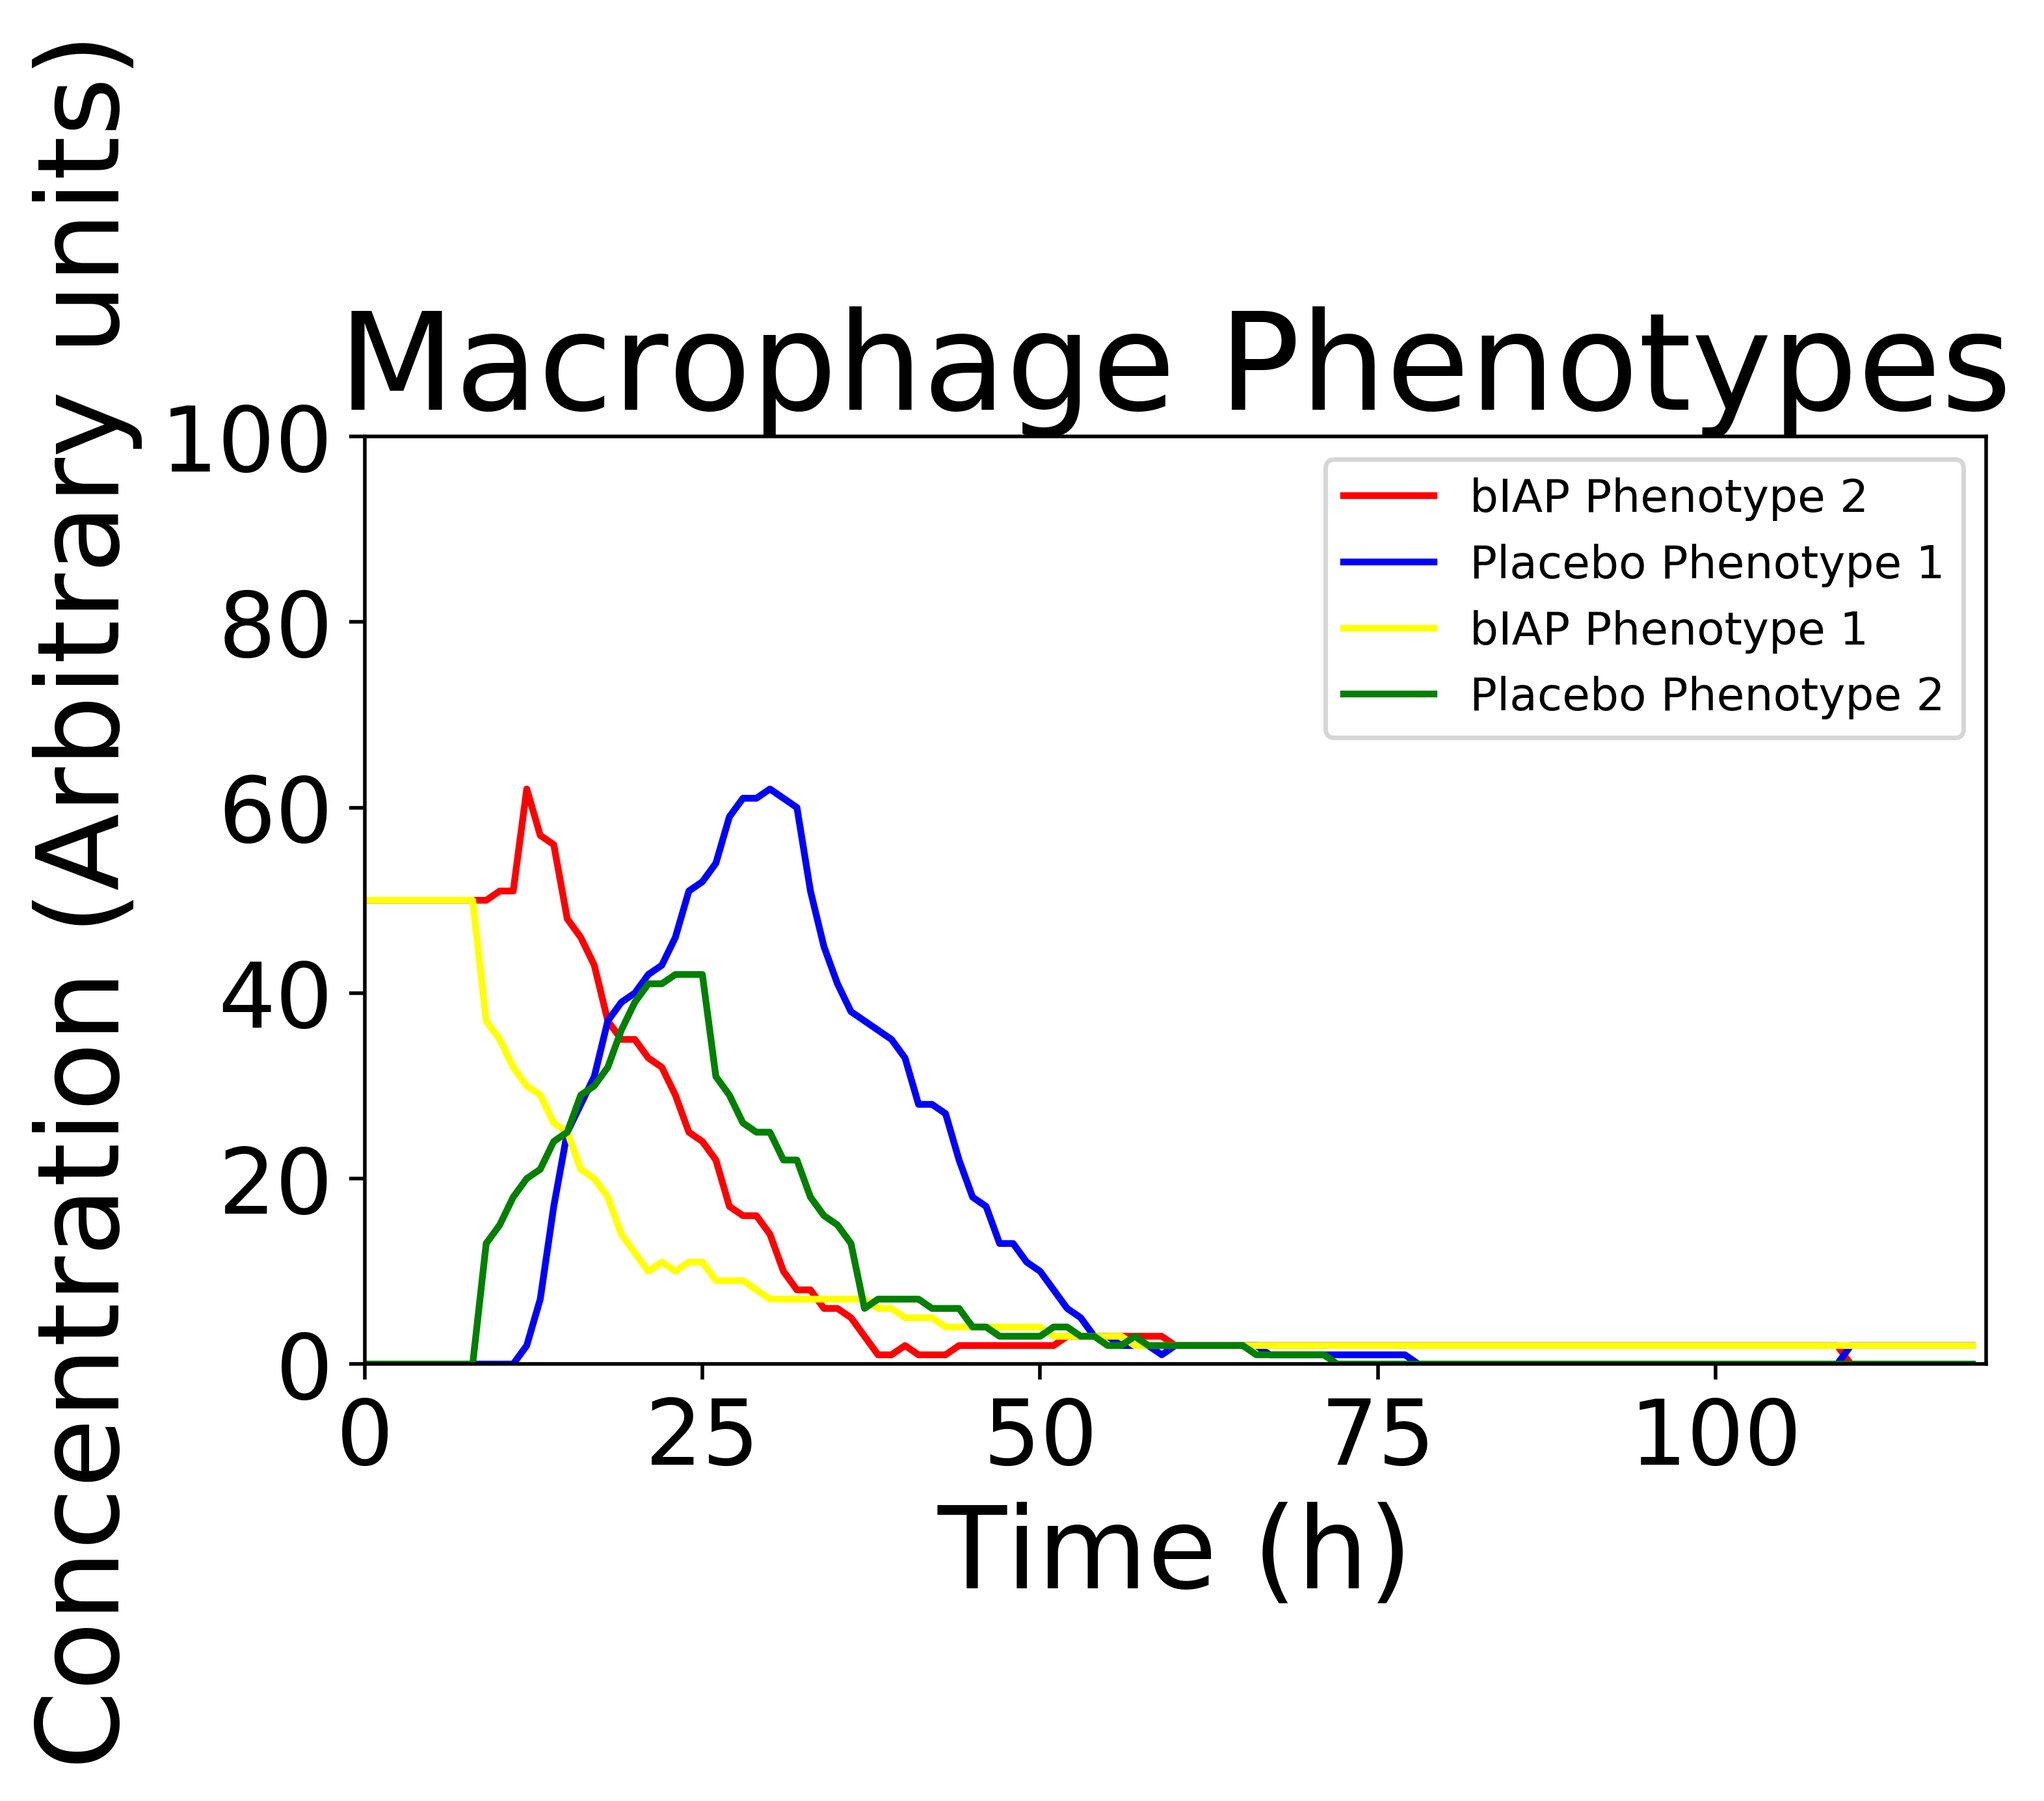
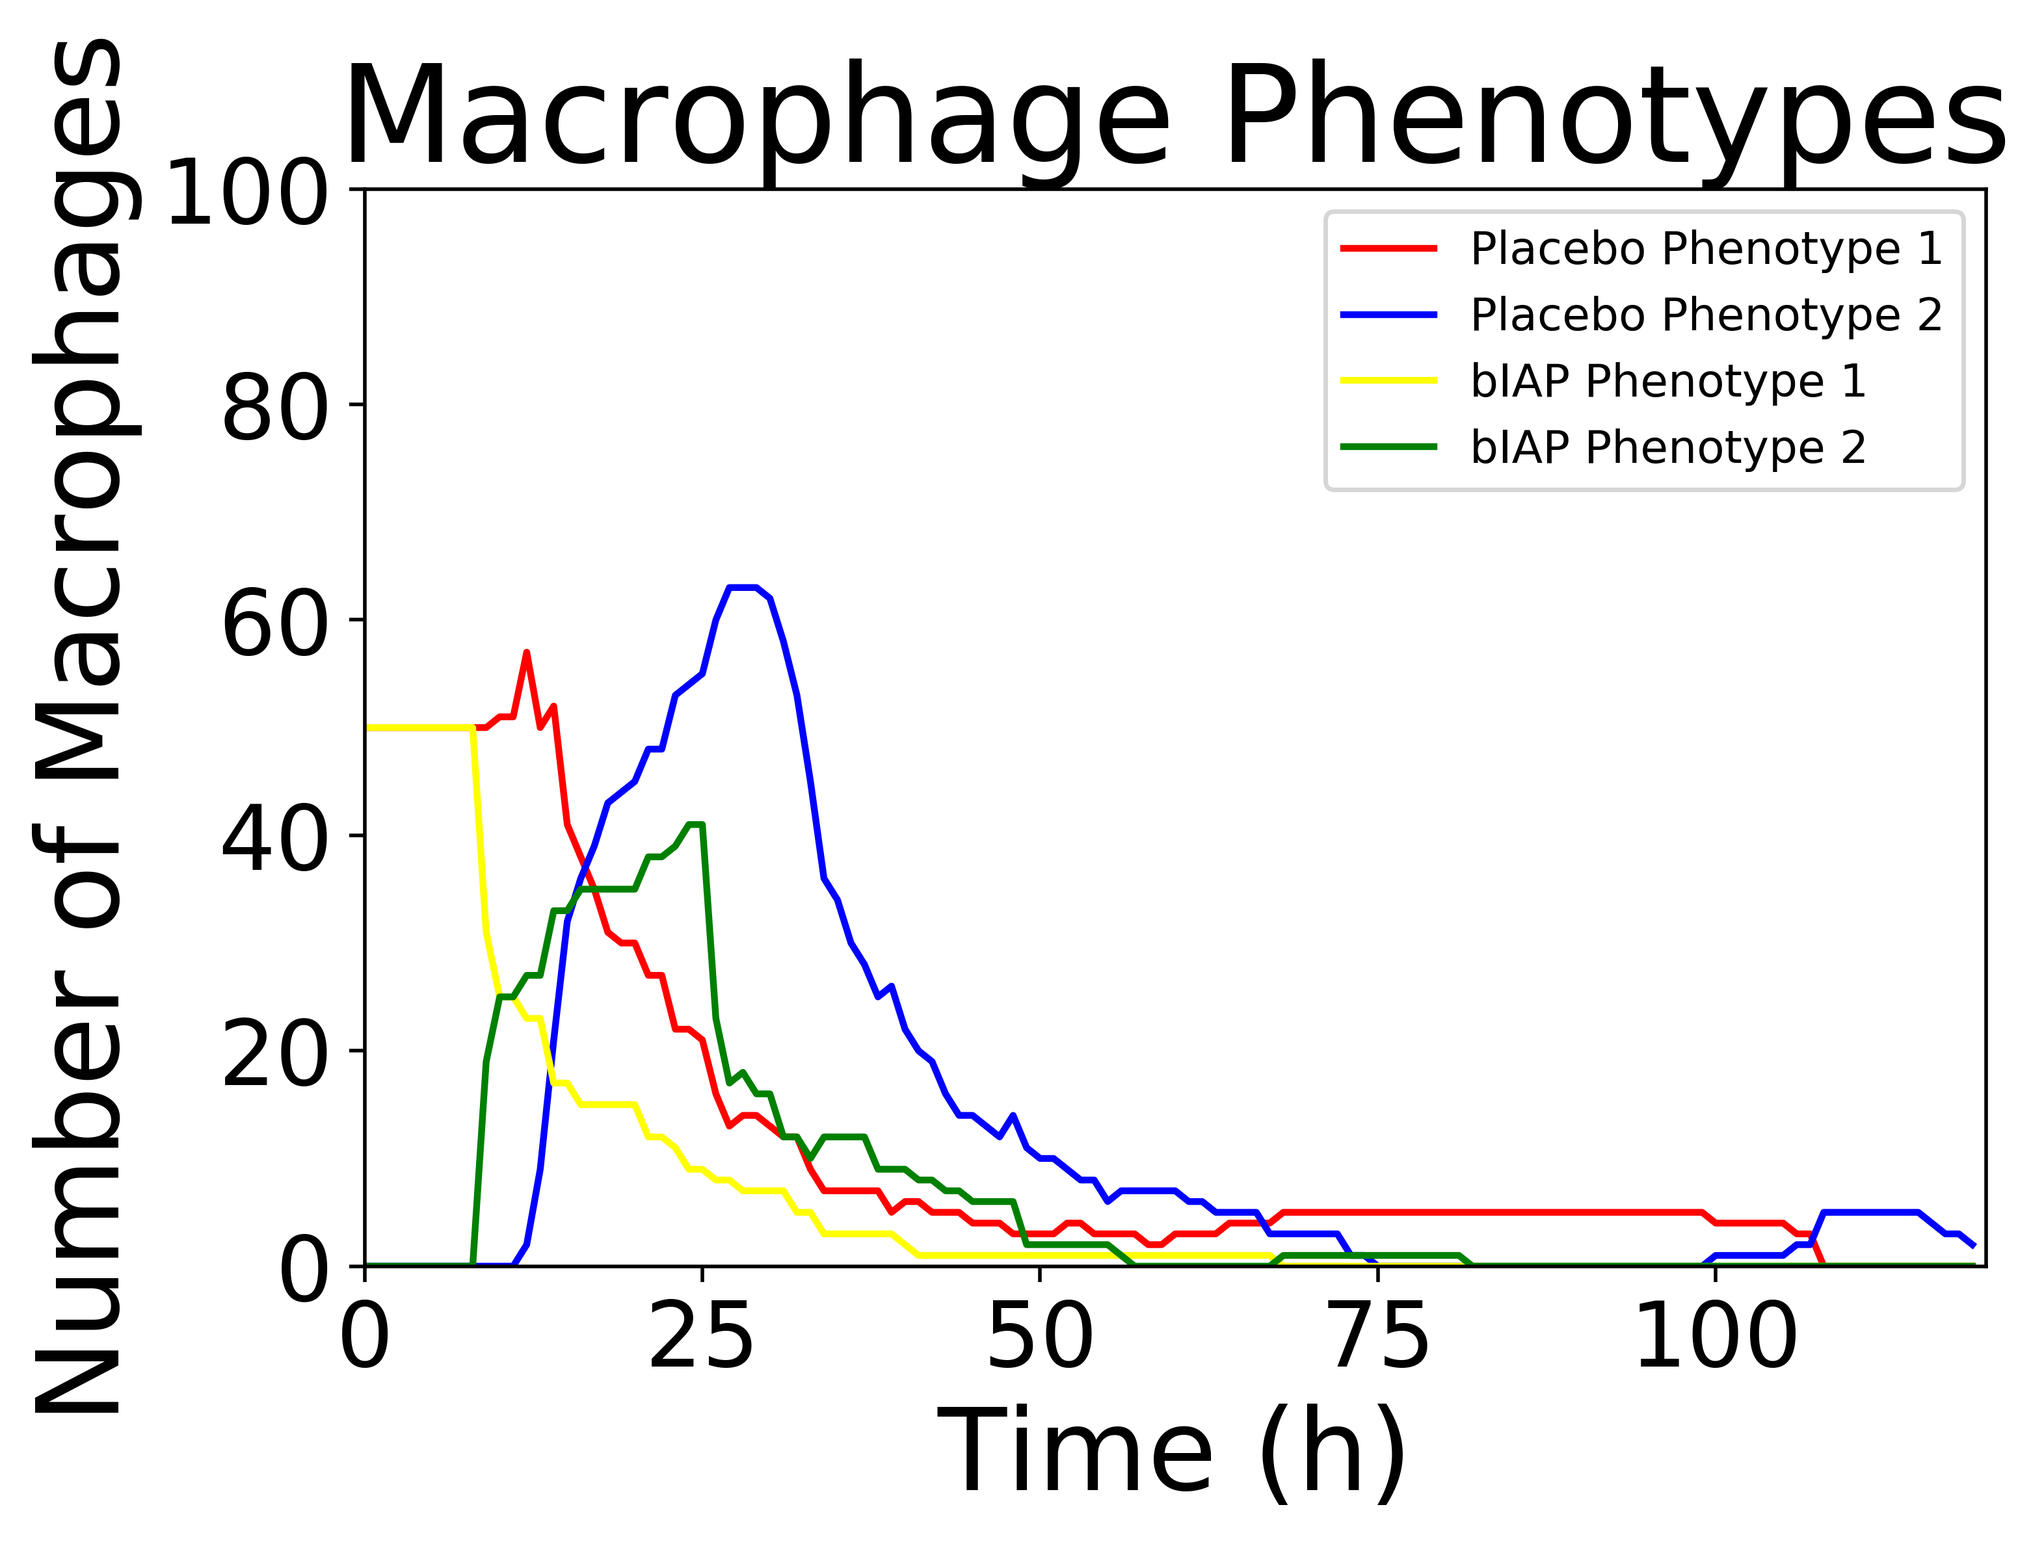
Axis label bug fixed

diff --git a/ABM/AP_vs_not.py b/ABM/AP_vs_not.py
@@ -23,14 +23,14 @@ def AP_vs_not_model(step_count=120):
 
     n = loop_fig(1)
     plt.figure(n)
-    plt.plot(cell_concentrations["Macrophages"], linewidth=lw, ls='-', color = "#377eb8" )
-    plt.plot(cell_concentrationsAP["Macrophages"], linewidth=lw, ls='-', color = "#4daf4a")
+    plt.plot(cell_concentrations["Macrophages"], linewidth=lw, ls='-', color = "#377eb8", label='Placebo')
+    plt.plot(cell_concentrationsAP["Macrophages"], linewidth=lw, ls='-', color = "#4daf4a", label='bIAP')
     plt.ylabel("Concentration (Arbitrary units)", fontsize=fs)
     plt.xlabel("Time (h)", fontsize=fs)
     plt.title("Macrophages", fontsize=ts)
     plt.ylim(0,100)
     plt.xlim(0,120)
-    plt.legend({ 'bIAP', 'Placebo'}, loc='best', fontsize=lfs)
+    plt.legend(loc='best', fontsize=lfs)
     plt.tick_params(labelsize=ls)
     plt.tight_layout()
     print('... Plotting macrophages')
@@ -38,13 +38,13 @@ def AP_vs_not_model(step_count=120):
 
     n = loop_fig(n)
     plt.figure(n)
-    plt.plot(cell_concentrations["Neutrophils"], linewidth=lw, ls='-', color = "#377eb8" )
-    plt.plot(cell_concentrationsAP["Neutrophils"], linewidth=lw, ls='-', color = "#4daf4a")
+    plt.plot(cell_concentrations["Neutrophils"], linewidth=lw, ls='-', color = "#377eb8", label='Placebo')
+    plt.plot(cell_concentrationsAP["Neutrophils"], linewidth=lw, ls='-', color = "#4daf4a", label='bIAP')
     plt.ylabel("Concentration (Arbitrary units)", fontsize=fs)
     plt.xlabel("Time (h)", fontsize=fs)
     plt.ylim(0, 100)
     plt.xlim(0, 120)
-    plt.legend({ 'bIAP', 'Placebo'}, loc='best', fontsize=lfs)
+    plt.legend(loc='best', fontsize=lfs)
     plt.title("Neutrophils", fontsize=ts)
     plt.tick_params(labelsize=ls)
     plt.tight_layout()
@@ -53,13 +53,13 @@ def AP_vs_not_model(step_count=120):
 
     n = loop_fig(n)
     plt.figure(n)
-    plt.plot(cell_concentrations["Fibroblasts"], linewidth=lw, ls='-', color = "#377eb8")
-    plt.plot(cell_concentrationsAP["Fibroblasts"], linewidth=lw, ls='-', color = "#4daf4a" )
+    plt.plot(cell_concentrations["Fibroblasts"], linewidth=lw, ls='-', color = "#377eb8", label='Placebo')
+    plt.plot(cell_concentrationsAP["Fibroblasts"], linewidth=lw, ls='-', color = "#4daf4a", label='bIAP')
     plt.ylabel("Concentration (Arbitrary units)", fontsize=fs)
     plt.xlabel("Time (h)", fontsize=fs)
     plt.ylim(0, 100)
     plt.xlim(0, 120)
-    plt.legend({ 'bIAP', 'Placebo'}, loc='best', fontsize=lfs)
+    plt.legend(loc='best', fontsize=lfs)
     plt.title("Fibroblasts", fontsize=ts)
     plt.tick_params(labelsize=ls)
     plt.tight_layout()
@@ -69,13 +69,13 @@ def AP_vs_not_model(step_count=120):
     n = loop_fig(n)
     plt.figure(n)
 
-    plt.plot(cell_concentrations["Blood_flow"], linewidth=lw, ls='-', color = "#377eb8" )
-    plt.plot(cell_concentrationsAP["Blood_flow"], linewidth=lw, ls='-', color="#4daf4a")
+    plt.plot(cell_concentrations["Blood_flow"], linewidth=lw, ls='-', color = "#377eb8", label='Placebo')
+    plt.plot(cell_concentrationsAP["Blood_flow"], linewidth=lw, ls='-', color="#4daf4a", label='bIAP')
     plt.ylabel("Concentration (Arbitrary units)", fontsize=fs)
     plt.xlabel("Time (h)", fontsize=fs)
     plt.ylim(0, 100)
     plt.xlim(0, 120)
-    plt.legend({ 'bIAP', 'Placebo'}, loc='best', fontsize=lfs)
+    plt.legend(loc='best', fontsize=lfs)
     plt.title("Oxygen", fontsize=ts)
     plt.tick_params(labelsize=ls)
     plt.tight_layout()
@@ -85,13 +85,13 @@ def AP_vs_not_model(step_count=120):
     n = loop_fig(n)
     plt.figure(n)
 
-    plt.plot(cell_concentrations["Collagen"], linewidth=lw, ls='-', color = "#377eb8" )
-    plt.plot(cell_concentrationsAP["Collagen"], linewidth=lw, ls='-', color="#4daf4a")
+    plt.plot(cell_concentrations["Collagen"], linewidth=lw, ls='-', color = "#377eb8", label='Placebo')
+    plt.plot(cell_concentrationsAP["Collagen"], linewidth=lw, ls='-', color="#4daf4a", label='bIAP')
     plt.ylabel("Concentration (Arbitrary units)", fontsize=fs)
     plt.xlabel("Time (h)", fontsize=fs)
     plt.ylim(0, 100)
     plt.xlim(0, 120)
-    plt.legend({ 'bIAP', 'Placebo'}, loc='best', fontsize=lfs)
+    plt.legend(loc='best', fontsize=lfs)
     plt.title("Collagen ", fontsize=ts)
     plt.tick_params(labelsize=ls)
     plt.tight_layout()
@@ -212,15 +212,15 @@ def AP_vs_not_model(step_count=120):
     for y in mac_phen_AP:
     	mac_1_AP.append(y[0])
     	mac_2_AP.append(y[1])
-    plt.plot(mac_1,color = 'red')
-    plt.plot(mac_2,color = 'blue')
-    plt.plot(mac_1_AP,color = 'yellow')
-    plt.plot(mac_2_AP,color = 'green')
-    plt.ylabel("Concentration (Arbitrary units)", fontsize=fs)
+    plt.plot(mac_1,color = 'red', label='Placebo Phenotype 1')
+    plt.plot(mac_2,color = 'blue', label='Placebo Phenotype 2')
+    plt.plot(mac_1_AP,color = 'yellow', label='bIAP Phenotype 1')
+    plt.plot(mac_2_AP,color = 'green', label='bIAP Phenotype 2')
+    plt.ylabel("Number of Macrophages", fontsize=fs)
     plt.xlabel("Time (h)", fontsize=fs)
     plt.ylim(0, 100)
     plt.xlim(0, 120)
-    plt.legend({ 'Placebo Phenotype 1','Placebo Phenotype 2','bIAP Phenotype 1', 'bIAP Phenotype 2' }, loc='best')
+    plt.legend(loc='best')
     plt.title("Macrophage Phenotypes", fontsize=ts)
     plt.tick_params(labelsize=ls)
     plt.tight_layout()

diff --git a/ABM/server.py b/ABM/server.py
@@ -8,15 +8,15 @@ from ABM import WoundModel
 from agents import *
 
 
-Neutrophil_slider = UserSettableParameter('slider', "Number of Neutrophils", 50, 1, 100, 1)
-Macrophage_slider = UserSettableParameter('slider', "Number of Macrophages", 50, 1, 100, 1)
-Fibroblast_slider = UserSettableParameter('slider', "Number of Fibroblasts", 60, 1, 200, 1)
-wound_size_slider = UserSettableParameter('slider', 'Wound Radius',10,1,10,1)
+Neutrophil_slider = UserSettableParameter('slider', "Number of Neutrophils", 50, 1, 200, 1)
+Macrophage_slider = UserSettableParameter('slider', "Number of Macrophages", 50, 1, 200, 1)
+Fibroblast_slider = UserSettableParameter('slider', "Number of Fibroblasts", 60, 1, 400, 1)
+wound_size_slider = UserSettableParameter('slider', 'Wound Radius',10,1,12,1)
 coagulation_slider = UserSettableParameter('slider', 'Proportion of Coagulation', 0.7, 0, 1, 0.1)
-IL10_slider = UserSettableParameter('slider', 'Initial IL-10', 0.5, 0, 1, 0.1)
-IL6_slider = UserSettableParameter('slider', 'Initial IL6', 0.5, 0, 1, 0.1)
-TNFa_slider = UserSettableParameter('slider', 'Initial TNFa', 0.5, 0, 1, 0.1)
-TGFb_slider = UserSettableParameter('slider', 'Initial TGFb', 0.5, 0, 1, 0.1)
+IL10_slider = UserSettableParameter('slider', 'Initial IL-10', 0.5, 0, 10, 0.1)
+IL6_slider = UserSettableParameter('slider', 'Initial IL6', 0.5, 0, 10, 0.1)
+TNFa_slider = UserSettableParameter('slider', 'Initial TNFa', 0.5, 0, 10, 0.1)
+TGFb_slider = UserSettableParameter('slider', 'Initial TGFb', 0.5, 0, 10, 0.1)
 grid_width = 25
 grid_height = 25
 
